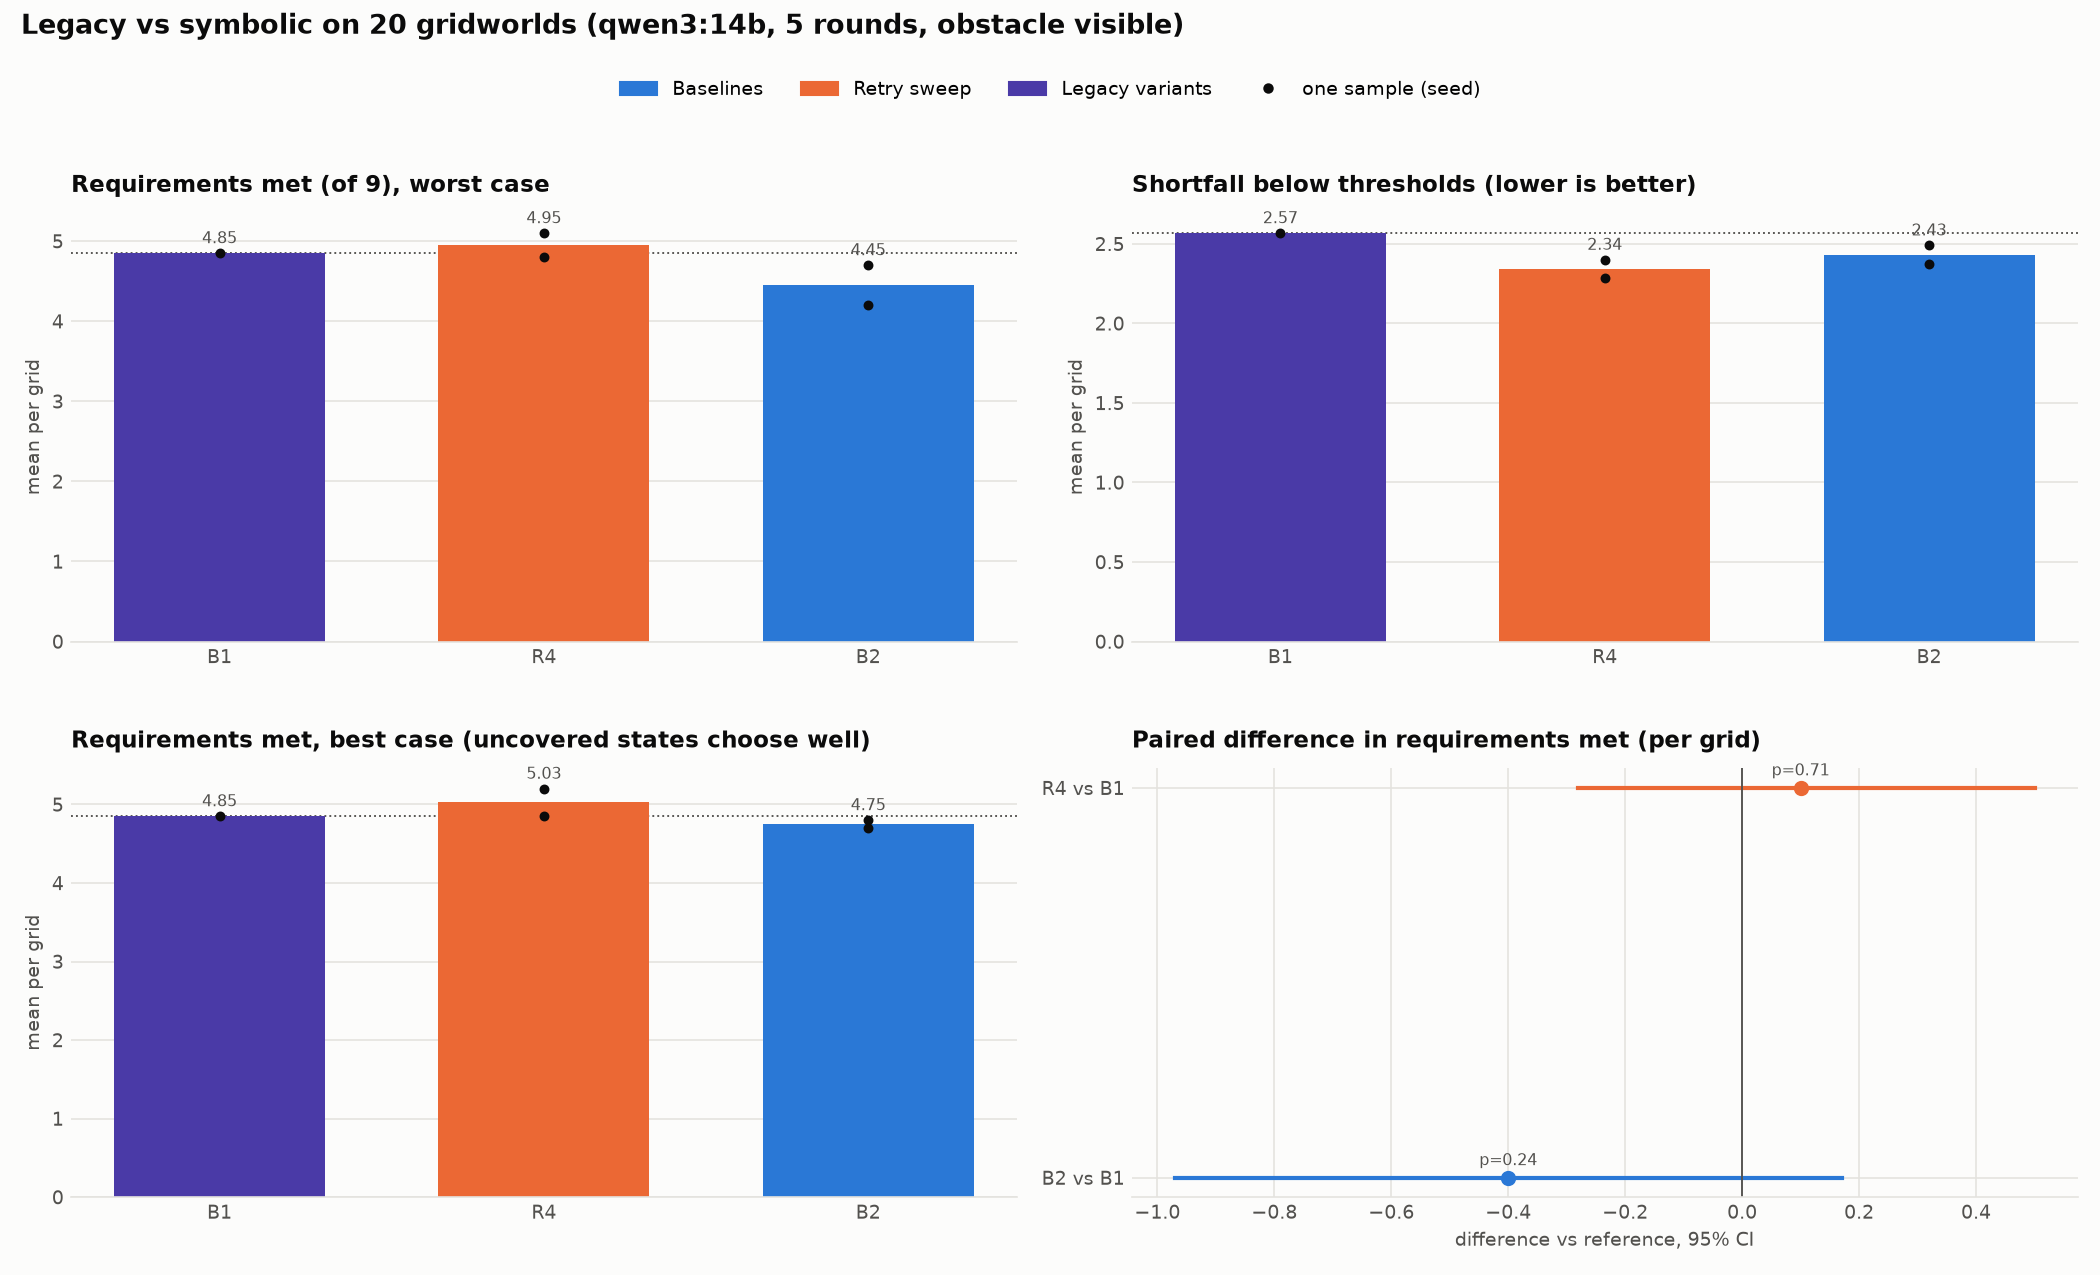
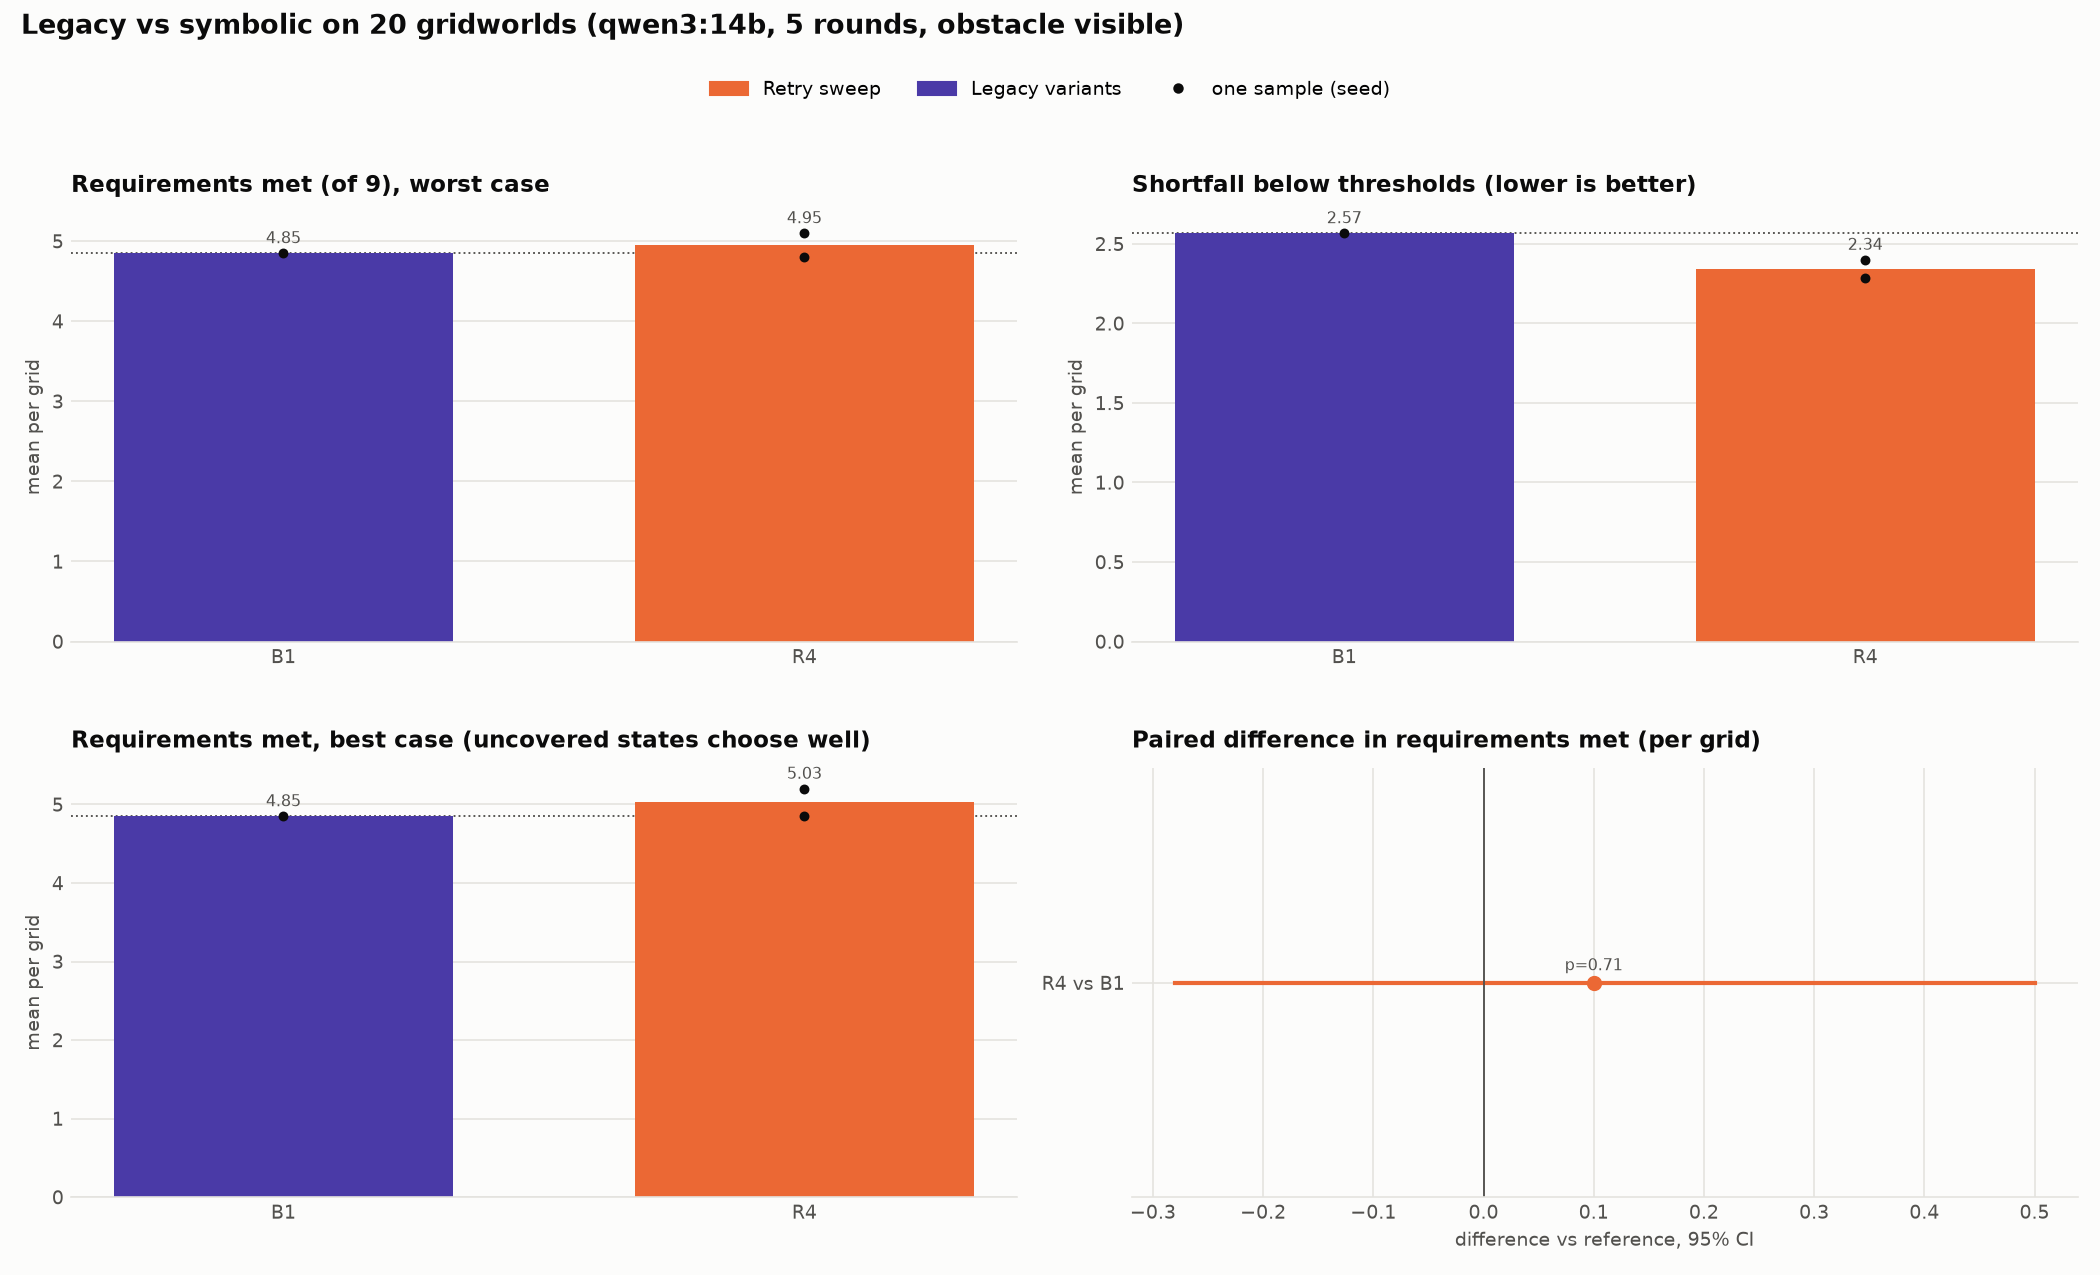
Legacy comparison page: legacy against the default loop only

diff --git a/PRISM-Guided-Learning/out/results/legacy_qwen/SUMMARY.md b/PRISM-Guided-Learning/out/results/legacy_qwen/SUMMARY.md
@@ -1,6 +1,6 @@
-# Legacy per-state planner vs the symbolic loop (qwen3:14b) (auto-generated 2026-10-08 08:36)
+# Legacy per-state planner vs the symbolic loop (qwen3:14b) (auto-generated 2026-10-08 09:02)
 
-Gridworld, 20 grids (19 solvable), qwen3:14b, 5 rounds, obstacle phase visible to rules and legacy. Legacy has one seed (preliminary; a second seed was not run), the symbolic conditions two. Symbolic numbers are worst case; legacy's policy is deterministic, so its best and worst case coincide. The paired tests (each symbolic condition against legacy, per grid) are exploratory, not pre-registered. Legacy logs only per-run token totals, so it has no spend curve: its whole run averages about 151k tokens per grid, 8x the default loop.
+Gridworld, 20 grids (19 solvable), qwen3:14b, 5 rounds, obstacle phase visible to rules and legacy. Legacy has one seed (preliminary; a second seed was not run), the default loop two. Symbolic numbers are worst case; legacy's policy is deterministic, so its best and worst case coincide. The paired test (the default loop against legacy, per grid) is exploratory, not pre-registered. Legacy logs only per-run token totals, so it has no spend curve: its whole run averages about 151k tokens per grid, 8x the default loop.
 
 Regenerate: `python viz/ablation_summary.py configs/plot/legacy_qwen.yaml`.
 
@@ -26,7 +26,6 @@ Regenerate: `python viz/ablation_summary.py configs/plot/legacy_qwen.yaml`.
 |---|---|---|---|---|---|---|---|---|---|---|---|---|
 | B1 | Legacy per-state (obstacle visible) | 1 | 0/19 | 4.85 (4.85 to 4.85) | 5 [4 to 6] | 4.85 | 2.22 [1.96 to 3.25] | 0 |  |  |  |  |
 | R4 | Symbolic, restart on slow progress (the default) | 2 | 0/19 | 4.95 (4.80 to 5.10) | 5 [4 to 6] | 5.03 | 2.27 [1.66 to 3.09] | 1 | B1 | +0.10 [-0.28, +0.50] | 0.712 | 35% |
-| B2 | Symbolic, restart after 2 stalls | 2 | 0/19 | 4.45 (4.20 to 4.70) | 4 [4 to 5] | 4.75 | 2.25 [1.40 to 3.46] | 3 | B1 | -0.40 [-0.97, +0.17] | 0.237 | 33% |
 
 ## Costs (mean per grid)
 
@@ -34,7 +33,6 @@ Regenerate: `python viz/ablation_summary.py configs/plot/legacy_qwen.yaml`.
 |---|---|---|---|---|---|
 | B1 | 101.5k | 50.0k | 8 | 25.7 | 151,490 |
 | R4 | 13.0k | 6.2k | 9 | 3.2 | 19,219 |
-| B2 | 17.0k | 7.0k | 9 | 3.7 | 23,969 |
 
 ## Requirements met after k rounds
 
@@ -42,5 +40,4 @@ Regenerate: `python viz/ablation_summary.py configs/plot/legacy_qwen.yaml`.
 |---|---|---|---|---|---|
 | B1 | 4.70 | 4.80 | 4.85 | 4.85 | 4.85 |
 | R4 | 3.00 | 3.77 | 4.42 | 4.78 | 4.95 |
-| B2 | 2.98 | 3.67 | 3.85 | 4.25 | 4.45 |
 
